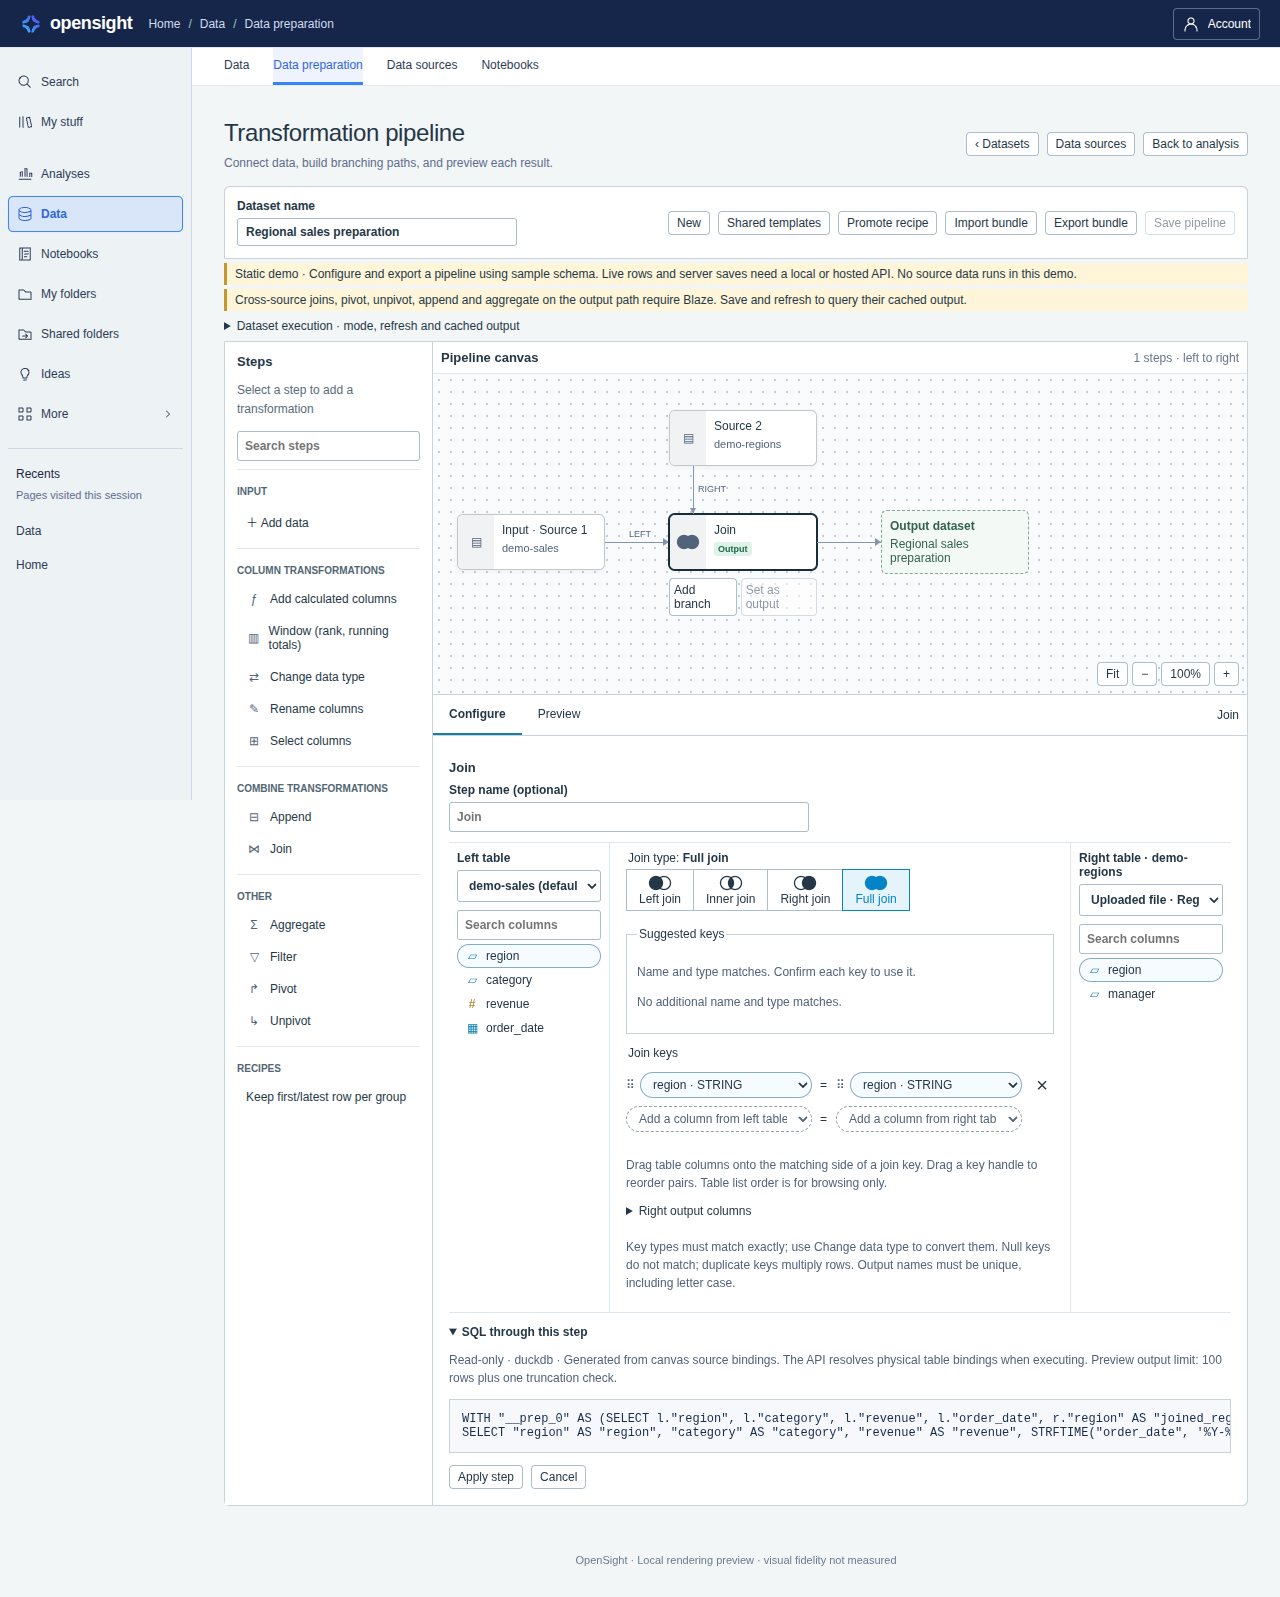
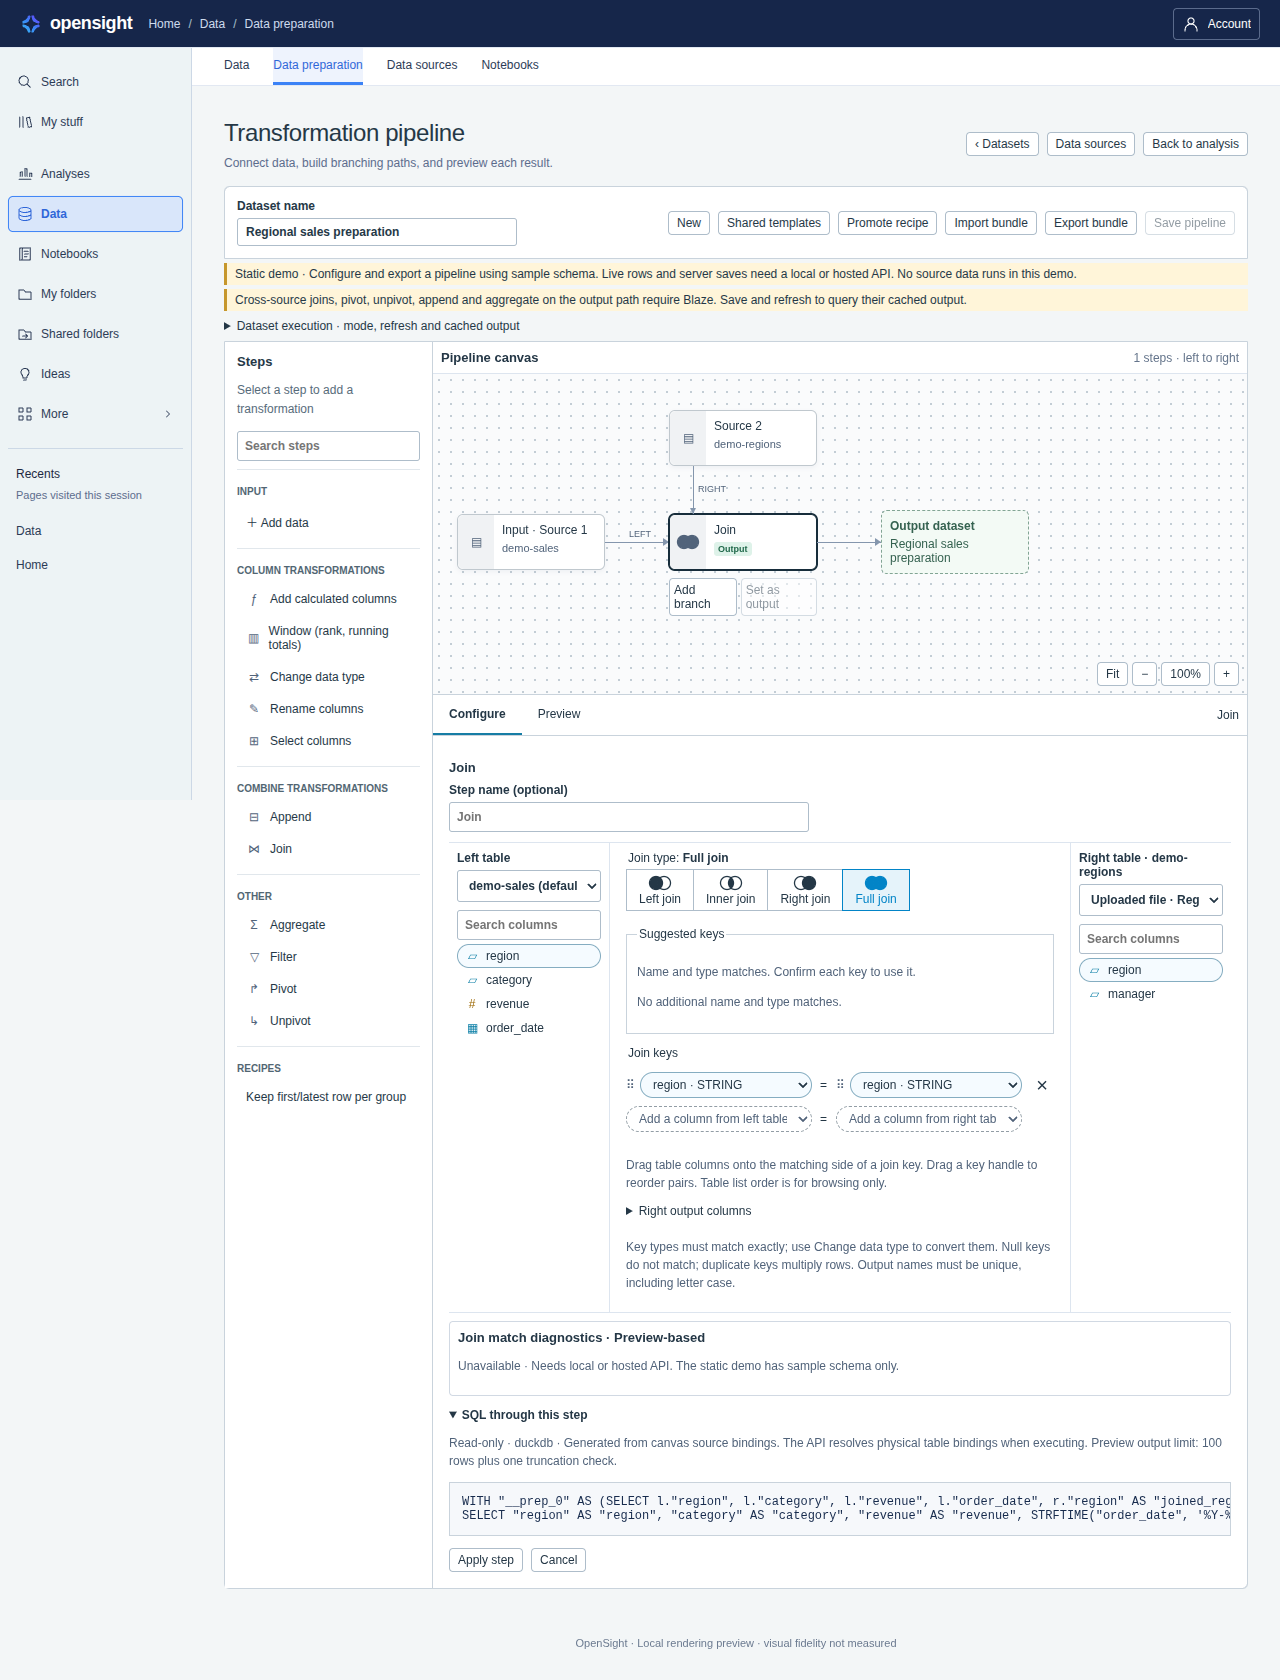
Issue #286 item 5: document bounds and complete demo and root verification

diff --git a/docs/issue-286-gap-notes.md b/docs/issue-286-gap-notes.md
@@ -37,3 +37,118 @@ windows, branches, and nested direct recipes run on bounded source samples.
 A side is marked truncated when its input exceeds the bound **or any leaf
 feeding that side was truncated**, even if filtering leaves zero rows.
 Sampling follows source order without a sort or random full-source scan.
+
+## Visual review
+
+Rebuilt the static demo and all embed entries with
+`npm run build:demo --workspace @opensight/web`. Refreshed
+`docs/images/data-prep.png` and `docs/images/opensight-tour.gif` using the #279
+local adaptation of `~/workspace/tools/screenshots/readme-gif.mjs` and its
+FFmpeg palette workflow (42 captured frames, 2 fps holds, 10 fps encoding).
+The static demo is a local artifact, not a deployed server.
+
+Compared the new screenshot with the prior data-prep capture and
+`lookfeel-references/qs-2026/qs-data-prep-new.jpg`. The grouped Steps dock,
+dotted left-to-right canvas, left/right column lists, Venn selector and compact
+Arial controls remain. The diagnostics panel sits below the join configuration,
+above the SQL disclosure, and clearly states that static counts are unavailable.
+Existing navigation, chrome, spacing and graph-layout differences remain;
+QuickSight visual fidelity is not measured. No new visual defect was identified
+for an issue; the no-network constraint also precludes remote issue filing.
+
+Browser checks covered configured/unconfigured joins, keyboard join choices,
+unapplied type errors, absence of fabricated counts, and the unavailable static
+preview. Desktop (1280px) and mobile (390px) had no document horizontal overflow.
+There were no page errors or external HTTP requests. Captures, the adapted
+script and `browser.json` are in ignored `.opensight/issue-286-verification/`;
+build/browser logs are `/tmp/issue-286-demo-build.log` and
+`/tmp/issue-286-browser.log`.
+
+## Focused verification and review
+
+- Item 1 compiler/core plus existing prep/branch regressions: **28 passed /
+  0 failed / 0 skipped** (`/tmp/issue-286-item1.log`). Includes executing the
+  generated SQL in DuckDB and PGlite, bounds before selective filters, NULL and
+  composite keys, one empty side, fan-out multiplication and inherited probes.
+- Item 2 local API/executor checks: **16 passed / 0 failed / 0 skipped**
+  (`/tmp/issue-286-item2.log`). Includes a 10,030-row source, source ownership,
+  named errors, ordinary preview regression and shared-deadline expiration.
+- Item 3 initial hosted checks: **6 passed / 0 failed / 0 skipped**
+  (`/tmp/issue-286-item3.log`). Hosted/local fan-out parity, bounded SQL intake,
+  full-reader tripwires, source rotation, foreign/protected-source denial.
+- Item 4 web checks plus existing join/SQL/prep regressions: **49 passed /
+  0 failed / 0 skipped** (`/tmp/issue-286-item4.log`). Counts, provenance,
+  loading, errors, unavailable states, unapplied drafts and stale-response
+  suppression are covered.
+- Final hosted route review found that the dedicated operation also needed the
+  runtime/serverless allowlists and the read-response publication guard. Added
+  both, including tests for final revision denial and result-adapter invocation.
+  Focused diagnostics/ingress result: **19 passed / 0 failed / 0 skipped**
+  (`/tmp/issue-286-route-finish.log`). The initial root run was interrupted during
+  setup and restarted after this correction; its incomplete log is retained as
+  `/tmp/issue-286-npm-test-interrupted.log`.
+
+- The next full run detected stale generated edge files after that allowlist
+  change. Regeneration initially hit the generator's existing 9,500-byte
+  pre-header guard. Removing newlines following explicit semicolons preserves
+  JavaScript semantics and retains that guard; the final packaged file is
+  **9,515 bytes including its generated-file header**, below the existing
+  10,000-byte platform limit. Both checked-in copies were regenerated locally.
+  Generated/packaged route and hosted diagnostics checks: **20 passed /
+  0 failed / 0 skipped** (`/tmp/issue-286-edge-finish.log`). The failed partial
+  root run is retained in `/tmp/issue-286-npm-test-edge-failure.log`; the full
+  suite was restarted after the fix. No deployment or AWS operation was used.
+
+No new dependency, bundle format or join type was added. `SOLUTION_DESIGN.md`
+was not edited. No push, merge, AWS call or external network access was performed.
+
+## Full root verification
+
+Final root `npm test` exited **0**, with `TZ=UTC`, `TMPDIR=/tmp`,
+`DATABASE_URL` unset and `OPENSIGHT_CHROMIUM` set to the installed Playwright
+headless shell at
+`~/.cache/ms-playwright/chromium_headless_shell-1243/chrome-headless-shell-linux64/chrome-headless-shell`.
+The sandbox override enabled local loopback/browser execution only; no AWS or
+external network operation was performed.
+
+Node reporters total **5,658 passed / 0 failed / 37 skipped** (5,695 tests).
+The Python SDK passed **32/32**. Combined root totals are **5,690 passed /
+0 failed / 37 skipped** (5,727 tests; zero cancelled/todo).
+
+| Suite | Passed | Failed | Skipped |
+| --- | ---: | ---: | ---: |
+| API | 1,484 | 0 | 35 |
+| Bundle parser | 211 | 0 | 0 |
+| CLI | 73 | 0 | 0 |
+| Embedding SDK | 10 | 0 | 0 |
+| TypeScript headless SDK | 28 | 0 | 0 |
+| Python headless SDK | 32 | 0 | 0 |
+| MCP server | 74 | 0 | 0 |
+| O interpreter | 42 | 0 | 0 |
+| Parity | 11 | 0 | 0 |
+| Query engine | 865 | 0 | 2 |
+| Web | 2,750 | 0 | 0 |
+| Root conformance/site | 110 | 0 | 0 |
+| **Total including Python** | **5,690** | **0** | **37** |
+
+All 37 skips are live-Postgres checks: 36 require `DATABASE_URL`, and one
+requires a live TLS PostgreSQL server. No browser test skipped. Final logs and
+exit status are `/tmp/issue-286-npm-test.log` and
+`/tmp/issue-286-npm-test.exit`; parsed counts are in
+`/tmp/issue-286-test-counts.json`.
+
+## Checkpoints
+
+All commits are on `work/issue-286-join-diagnostics`; nothing is merged or pushed.
+
+| Item | Commit | Change |
+| --- | --- | --- |
+| 1 | `32984f33b86990800c0abd91c31e22e49a8f50fa` | Compiler sampling contract and shared counts |
+| 2 | `9a9f71fab7ea882b5c06b49eb980ec4b7a3afae0` | Local execution/API and shared deadline |
+| 3 | `a2b6d4c608bd6f13d5ed25df99812f3baf1e5e25` | Hosted bounded readers and contained counts |
+| 4 | `811fd6fbeac4433cf03bd189ff808e84e3acb4ed` | Preview-based diagnostics UI |
+| 3 follow-up | `62ea71a1251c2281659a5fd7e55a5a9c78b735b2` | Runtime allowlists and final publication checks |
+| 3 follow-up | `021b1d5b76479d082e6aee9fa59dbedf78828afc` | Generated edge routes and size-preserving compaction |
+
+Item 5 is the docs, changelog, visual artifacts and final verification checkpoint
+containing this record.

diff --git a/docs/data-prep.md b/docs/data-prep.md
@@ -60,11 +60,73 @@ are compiler table bindings; the API resolves physical table names when executin
 The displayed dialect is the prep compiler's dialect (including DuckDB staging
 for supported hosted connectors), not necessarily the upstream connector's SQL.
 
-Join match diagnostics are **not available** in this slice. The existing preview
-limits returned output, not source scans or both join inputs. Item 3 was stopped
-under the run brief's explicit architecture constraint; see the
-[bounded-preview blocker](issue-279-gap-notes.md#item-3--blocked-by-the-preview-architecture).
-No matched/unmatched counts or fan-out warning are inferred from a joined sample.
+### Preview-based join diagnostics (#286)
+
+Configured joins show matched output rows, unmatched rows on each side, and a
+fan-out warning with maximum matched-key multiplicities. The editor updates
+these diagnostics for unapplied edits and clears stale counts immediately.
+Every result is explicitly **preview-based**, never a whole-source count.
+The static demo shows an unavailable/schema-only notice and no fabricated counts.
+
+The local and hosted APIs expose the same operation:
+`POST /api/datasets/:id/prep/join-diagnostics` with
+`{ pipeline, through: "join-step-id" }`. The pipeline may be omitted to use the
+saved definition. `through` must name a configured join. Unknown columns,
+missing keys, incompatible types and unauthorized sources keep the existing
+named compiler/admission errors. Caller-supplied limits, SQL, source bindings
+and security assertions are not accepted.
+
+Sampling uses the shared query-engine constant `PREP_JOIN_SAMPLE_LIMIT = 10000`:
+
+- Each physical input is read with SQL `LIMIT 10001`; the extra row detects
+  truncation. A materialized sample CTE is reused within the local query.
+  Hosted SQL sources are read with that same bound before staging in the
+  contained DuckDB worker. Diagnostics never call the full-table preview loader.
+- The probe is excluded before applying the pipeline prefix. Filters,
+  aggregates, windows, branches, append and nested direct recipes operate on
+  these bounded source samples. Each left/right join input is then capped at
+  10,000 rows, again with a probe. Sampling has unspecified source order; it is
+  not random or statistically representative and does not sort whole sources.
+- Both inputs, staging and the shared TypeScript count computation use **one
+  ten-second deadline**. DuckDB interrupt, the remaining PostgreSQL
+  `statement_timeout`, and hosted cancellation/worker containment enforce it.
+  A timeout returns a named execution error (`PREP_EXECUTION_FAILED` locally,
+  or `EXECUTION_CANCELLED` through hosted containment); partial counts never
+  escape. Successful results include `timedOut: false`.
+
+Count semantics are independent of the selected inner/left/right/full join:
+
+- A key is the composite of all configured key pairs. NULL in any component
+  never matches and the row counts as unmatched on its own side.
+- `matchedRows` is the matched join output cardinality from the samples:
+  the sum of **leftCount × rightCount** over matched keys. Outer-join null
+  extensions are counted separately as unmatched rows.
+- `unmatchedLeft` and `unmatchedRight` count sampled rows with no matching key
+  in the other sample, including NULL keys.
+- `fanOut` is true if any matched key appears more than once on either side.
+  `maxLeftMultiplicity` and `maxRightMultiplicity` are the maxima over matched
+  keys on each side (zero if none match). The two maxima can belong to different
+  keys; they are not another output-count estimate.
+- Every result includes `basis: "bounded-preview"`, `sampleLimit`,
+  `leftRowsSampled`, `rightRowsSampled`, `leftTruncated` and `rightTruncated`.
+  A side is truncated if its join input **or any physical leaf feeding it**
+  exceeded the bound. A selective filter can therefore produce zero sampled
+  rows while retaining `leftTruncated: true`.
+
+Supported paths are local staged uploads and trusted PostgreSQL tables, plus
+hosted admitted SQL sources (PostgreSQL, MySQL/MariaDB and manual Redshift).
+Existing prep policy denies protected sources, including tenant-predicate
+sources, before sampling. Authorization and revision checks are unchanged.
+Nested direct prepared recipes use the same bounded compiler.
+
+Inputs whose current readers require a full payload are explicitly unavailable:
+local governed input tables, local/hosted nested BLAZE or STORED prepared inputs,
+and hosted file/S3 uploads (legacy encrypted payloads or durable artifacts).
+These return `UNSUPPORTED_PREP_STEP` before reading payloads/caches. See
+[issue #286 bounded-reader evidence](issue-286-gap-notes.md). This supersedes the
+[original #279 diagnostics blocker](issue-279-gap-notes.md#item-3--blocked-by-the-preview-architecture)
+for supported inputs. Ordinary preview retains its existing 1–500 output limit
+and full-source transformation semantics; diagnostics are a separate operation.
 
 ## Dataset and bundle model
 

diff --git a/CHANGELOG.md b/CHANGELOG.md
@@ -21,9 +21,11 @@ Unreleased entries into a new version section (see AGENTS.md §1).
 
 ### Added
 
+- Prep join diagnostics show matched output rows, unmatched rows per side, and fan-out multiplicities on bounded preview samples with explicit truncation provenance (#286). Local DuckDB/PostgreSQL and hosted admitted SQL sources share the same counts and one ten-second deadline; unsupported full-payload/cache inputs report a named unavailable error, and the static demo remains schema-only.
+
 - Computed tables (issue #280): a dataset pipeline can be published in stored mode — Publish writes the pipeline output as a durable Parquet table that survives restarts and is never Blaze-evicted, counts against the storage quota (a publish or refresh that would exceed it stops before running and reports by how much), and works everywhere a dataset works (visual source, pipeline input including other computed tables, declared notebook input). Refresh swaps the stored table atomically; a failed refresh keeps the last good table, labeled with the failure and its time; an input change labels the table stale while its stored rows keep serving. The Data section gains a Tables surface listing computed and input tables together by kind (rows, size, last refreshed, state; empty state offers a single "Create from a dataset" action), and a published table can be downloaded in full as CSV or XLSX, counted against the egress quota and absent entirely when the workspace disables downloads.
 
-- Prep joins offer name/type key suggestions that require confirmation and labeled Venn choices; every transformation exposes read-only shared-compiler SQL and named compile errors (issue #279). Join match diagnostics remain blocked on bounded input previews.
+- Prep joins offer name/type key suggestions that require confirmation and labeled Venn choices; every transformation exposes read-only shared-compiler SQL and named compile errors (issue #279). Join match diagnostics follow separately under #286.
 
 - Dataset preparation now offers structured and bounded advanced Window steps for ranking, running/moving calculations, lag/lead and buckets, a Keep first/latest row per group recipe, and optional full-row append deduplication (issue #278).
 
